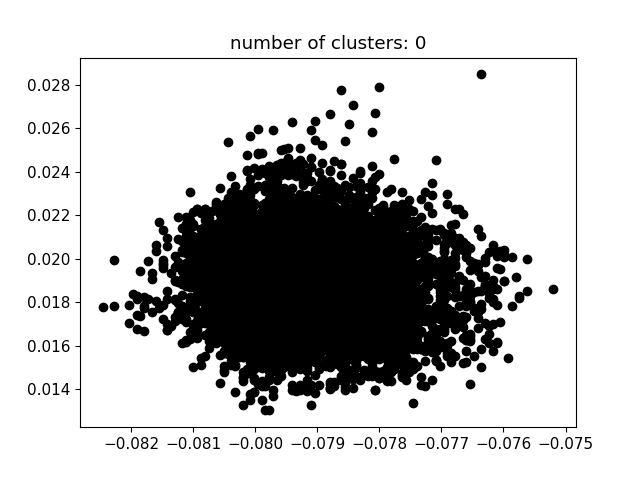
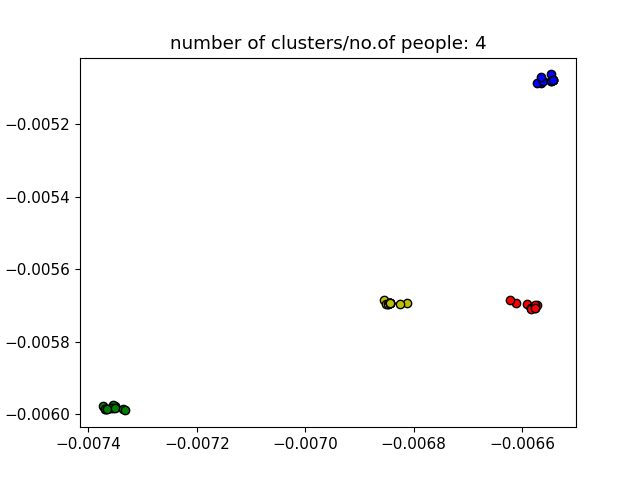
minor changes

diff --git a/inference_clustering.py b/inference_clustering.py
@@ -13,9 +13,7 @@ import matplotlib.pyplot as plt
 
 
 pretrained_model = YOLO('runs/detect/train2/weights/best.pt')
-
 results = pretrained_model(source="data/DatasetVideo.mp4", stream=True)  # generator of Results objects
-
 batch_size = 16
 
 def postprocess(features):
@@ -23,6 +21,8 @@ def postprocess(features):
     features = F.normalize(features)
     features = features.cpu().data.numpy()
     return features
+
+#batchify
 batch_patches = []
 for r in results:
     boxes = r.boxes.xyxy  # Boxes object for bbox outputs
@@ -31,7 +31,6 @@ for r in results:
     image = r.orig_img 
     patches = []
     
-
     for i,box in enumerate(boxes):
         tlbr = box.cpu().numpy().astype(int)
         patch = image[tlbr[1]:tlbr[3], tlbr[0]:tlbr[2], :]
@@ -49,28 +48,26 @@ for r in results:
         patches = torch.stack(patches, dim=0)
         batch_patches.append(patches)
 
-features = np.zeros((0, 1000))
+#load model for featurization
 model = models.resnet50(pretrained=True)
-state_dict_model = torch.load("model/custom_model_infrared/epoch=9-step=6140.ckpt")['state_dict']
+state_dict_model = torch.load("model/ft_ResNet50/net_last.pth")
 new_state_dict = OrderedDict()
 for k, v in state_dict_model.items():
-    if "model.model." in k:
-        name = k.replace("model.model.", "", 1)
-        new_state_dict[name] = v
-model.load_state_dict(new_state_dict)
-        
+        if "model." in k:
+            name = k.replace("model.", "", 1)
+            new_state_dict[name] = v
+model.load_state_dict(new_state_dict)     
 model.eval().cuda().half()
-print()
-for batch in batch_patches:
 
+#featurise
+features = np.zeros((0, 1000))
+for batch in batch_patches:
     emb = model(batch)
     feat = postprocess(emb)
-    
     features = np.vstack((features, feat))
 
-print(features.shape)
-db = DBSCAN(eps=0.009, min_samples=30).fit(features)
-print(len(db.labels_))
+#clustering
+db = DBSCAN(eps=0.001, min_samples=10).fit(features)
 
 core_samples_mask = np.zeros_like(db.labels_, dtype=bool)
 core_samples_mask[db.core_sample_indices_] = True
@@ -97,7 +94,5 @@ for k, col in zip(unique_labels, colors):
              markeredgecolor='k',
              markersize=6)
   
-plt.title('number of clusters: %d' % n_clusters_)
+plt.title('number of clusters/no.of people: %d' % n_clusters_)
 plt.savefig('test.png')
-  
-

diff --git a/inference.py b/inference.py
@@ -1,5 +1,57 @@
 from ultralytics import YOLO
+import cv2
+from collections import defaultdict
+import pandas as pd
 
-# inferencing pretrained YOLOv8 directly on the video
-pretrained_model = YOLO('yolov8n.pt')
-results = pretrained_model.track(source="data/DatasetVideo.mp4", show=True, tracker="tracker.yaml", classes = 0) 
+def get_time_per_person(counter_dict, ouput_path):
+    time = []
+    for id, frames in counter_dict.items():
+        time.append([id, frames["frames"]/30.0])
+    df = pd.DataFrame(time, columns = ['Person_Id', 'Time spent in video'])
+    df.to_csv(ouput_path, index=0)
+    print("Total number of people: ", len(df))
+    return df
+
+def inference_tracking(model_path, data_source, tracker_config="tracker.yaml", class_ids=0):
+    pretrained_model = YOLO(model_path)
+    results = pretrained_model.track(source=data_source, show=True, tracker=tracker_config, classes = class_ids) 
+    return results
+
+def main():
+    # inferencing pretrained YOLOv8 directly on the video
+    results = inference_tracking(model_path='runs/detect/train2/weights/best.pt', data_source="data/Walking Next to People.mp4")
+    counter_dict = {}
+
+    for i,r in enumerate(results):
+        image = r.orig_img 
+        H,W,_ = image.shape
+
+        for det in r:
+            box = det.boxes.xyxy 
+            tlbr = box.cpu().numpy().astype(int).reshape((4,))
+            tlbr[0] = max(0, tlbr[0])
+            tlbr[1] = max(0, tlbr[1])
+            tlbr[2] = min(W - 1, tlbr[2])
+            tlbr[3] = min(H - 1, tlbr[3])
+            patch = image[tlbr[1]:tlbr[3], tlbr[0]:tlbr[2], :]
+            
+            if(det.boxes.id and patch is not None):
+                id = int(det.boxes.id)
+                if id in counter_dict.keys():
+                    frame = counter_dict[id]["frames"] + 1
+                else:
+                    frame = 1
+                counter_dict[id] = {"frames":frame}
+                try: 
+                    cv2.imwrite("./post_process/images/Person_"+str(id)+"_frame_"+str(i)+".jpg", patch)
+                except:
+                    pass
+
+        cv2.imwrite("output/detection1/"+str(i)+"_.jpg", r.plot())
+        # cv2.waitKey(0)
+
+
+    get_time_per_person(counter_dict, "yolo_ir_trained_with_reid.csv")
+
+if __name__ == '__main__':
+    main()

diff --git a/reid/datagen.py b/reid/datagen.py
@@ -1,0 +1,33 @@
+import json
+import os
+import cv2
+
+def return_class(category_id):
+    if category_id in [1,2,3,4,5]:
+        return category_id-1
+    if category_id in [11]:
+        return 5
+    if category_id in [14]:
+        return 6
+    if category_id in [21]:
+        return 7
+    if category_id in [22]:
+        return 8
+
+with open('/home/luffy/workspace/TII/Data/Daytime/daytime.json') as f:
+    train_data = json.load(f)
+os.makedirs('/home/luffy/workspace/TII/reid/images/train/')
+ctr_train = 0
+for image_name in train_data['images']:
+    print(image_name['file_name'])
+    image = cv2.imread('/home/luffy/workspace/TII/Data/Daytime/IR/'+image_name['file_name'])
+    for ann in train_data['annotations']:
+        if image_name['id']==ann['image_id'] and ann['category_id']in [1,2,3,4,5,11,14,21,22]:
+            x, y, w, h = int(ann['bbox'][0]), int(ann['bbox'][1]), int(ann['bbox'][2]), int(ann['bbox'][3])
+            patch = image[y:y+h,x:x+w,:]
+            patch = cv2.resize(patch, (224, 224))
+            cv2.imwrite('/home/luffy/workspace/TII/reid/images/train/'+str(ctr_train)+'.jpg', patch)
+            f = open("/home/luffy/workspace/TII/reid/images/annotations.csv", "a")
+            print('reid/images/train/'+str(ctr_train)+'.jpg',',' ,return_class(ann['category_id']), file=f)
+            f.close()
+            ctr_train+=1
